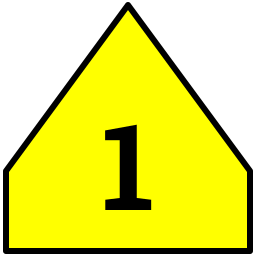
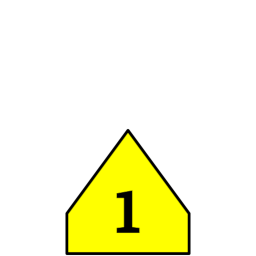
Fix some image sizes and a delete problem

diff --git a/src/main/java/de/turnertech/thw/cop/model/area/Area.java b/src/main/java/de/turnertech/thw/cop/model/area/Area.java
@@ -1,6 +1,5 @@
 package de.turnertech.thw.cop.model.area;
 
-import java.util.List;
 import java.util.UUID;
 
 import javax.xml.stream.XMLStreamWriter;
@@ -10,8 +9,10 @@ import de.turnertech.thw.cop.Logging;
 import de.turnertech.thw.cop.gml.BoundingBox;
 import de.turnertech.thw.cop.gml.Feature;
 import de.turnertech.thw.cop.gml.FeatureType;
+import de.turnertech.thw.cop.gml.Polygon;
 import de.turnertech.thw.cop.gml.SpatialReferenceSystem;
-import de.turnertech.thw.cop.util.Coordinate;
+import de.turnertech.thw.cop.gml.SpatialReferenceSystemRepresentation;
+import de.turnertech.thw.cop.ows.api.OwsContext;
 
 public class Area implements Feature {
     
@@ -21,7 +22,7 @@ public class Area implements Feature {
 
     private String id;
 
-    private List<Coordinate> geometry;
+    private Polygon geometry;
 
     private String areaType;
 
@@ -38,11 +39,11 @@ public class Area implements Feature {
         return id;
     }
 
-    public List<Coordinate> getGeometry() {
+    public Polygon getGeometry() {
         return geometry;
     }
 
-    public void setGeometry(List<Coordinate> polygon) {
+    public void setGeometry(Polygon polygon) {
         this.geometry = polygon;
     }
 
@@ -58,7 +59,7 @@ public class Area implements Feature {
 
     @Override
     public BoundingBox getBoundingBox() {
-        return BoundingBox.from(getGeometry());
+        return BoundingBox.from(getGeometry().getExterior().getPosList());
     }
 
     public String getAreaType() {
@@ -77,12 +78,7 @@ public class Area implements Feature {
         stringBuilder.append("\"><boscop:geometry><gml:Polygon srsName=\"http://www.opengis.net/def/crs/EPSG/0/4326\" gml:id=\"");
         stringBuilder.append(gmlId);
         stringBuilder.append("-geometry\"><gml:exterior><gml:LinearRing srsName=\"http://www.opengis.net/def/crs/EPSG/0/4326\"><gml:posList srsDimension=\"2\">");
-        for(Coordinate coord : geometry) {
-            stringBuilder.append(String.valueOf(coord.getLatitude()));
-            stringBuilder.append(" ");
-            stringBuilder.append(String.valueOf(coord.getLongitude()));
-            stringBuilder.append(" ");
-        }
+        
         stringBuilder.append("</gml:posList></gml:LinearRing></gml:exterior></gml:Polygon></boscop:geometry>");
         stringBuilder.append("<boscop:areaType>");
         stringBuilder.append(areaType);
@@ -92,11 +88,18 @@ public class Area implements Feature {
     }
 
     @Override
-    public void writeGml(XMLStreamWriter out, String localName, String namespaceURI) {
+    public void writeGml(XMLStreamWriter out, String localName, String namespaceURI, SpatialReferenceSystemRepresentation srs) {
         try {
             writeGmlStartElement(out, localName, namespaceURI);
+            out.writeAttribute(OwsContext.GML_URI, "id", getId());
             
+            out.writeStartElement(FEATURE_TYPE.getNamespace(), "areaType");
+            out.writeCharacters(areaType);
+            out.writeEndElement();
 
+            out.writeStartElement(FEATURE_TYPE.getNamespace(), "geometry");
+            geometry.writeGml(out);
+            out.writeEndElement();
 
             out.writeEndElement();
         } catch (Exception e) {

diff --git a/src/main/java/de/turnertech/thw/cop/gml/BoundingBox.java b/src/main/java/de/turnertech/thw/cop/gml/BoundingBox.java
@@ -47,6 +47,32 @@ public class BoundingBox implements GmlElement {
         return new BoundingBox(other.south, other.west, other.north, other.east);
     }
 
+    public static BoundingBox from(DirectPositionList posList) {
+        double maxSouth = Double.MAX_VALUE;
+        double maxWest = Double.MAX_VALUE;
+        double maxNorth = Double.MIN_VALUE;
+        double maxEast = Double.MIN_VALUE;
+
+        for(DirectPosition position : posList) {
+            if(position.getY() > maxNorth) maxNorth = position.getY();
+            if(position.getY() < maxSouth) maxSouth = position.getY();
+            if(position.getX() > maxEast) maxEast = position.getX();
+            if(position.getX() < maxWest) maxWest = position.getX();
+        }
+
+        // Catch BBOX with a size of 0 (causes errors in many clients, happens with only 1 point)
+        if(maxSouth == maxNorth) {
+            maxNorth += 0.00001;
+            maxSouth -= 0.00001;
+        }
+        if(maxEast == maxWest) {
+            maxEast += 0.00001;
+            maxWest -= 0.00001;
+        }
+
+        return new BoundingBox(maxSouth, maxWest, maxNorth, maxEast);
+    }
+
     public static BoundingBox from(PositionProvider... positions) {
         return from(Arrays.asList(positions));
     }
@@ -126,7 +152,7 @@ public class BoundingBox implements GmlElement {
     }
 
     @Override
-    public void writeGml(XMLStreamWriter out, String localName, String namespaceURI) {
+    public void writeGml(XMLStreamWriter out, String localName, String namespaceURI, SpatialReferenceSystemRepresentation srs) {
         try {
             writeGmlStartElement(out, localName, namespaceURI);
                 out.writeStartElement(GmlElement.NAMESPACE, "Envelope");

diff --git a/src/main/java/de/turnertech/thw/cop/model/area/AreaDecoder.java b/src/main/java/de/turnertech/thw/cop/model/area/AreaDecoder.java
@@ -6,8 +6,11 @@ import java.util.List;
 import org.w3c.dom.Element;
 import org.w3c.dom.NodeList;
 
+import de.turnertech.thw.cop.gml.DirectPosition;
+import de.turnertech.thw.cop.gml.DirectPositionList;
 import de.turnertech.thw.cop.gml.Feature;
-import de.turnertech.thw.cop.util.Coordinate;
+import de.turnertech.thw.cop.gml.LinearRing;
+import de.turnertech.thw.cop.gml.Polygon;
 
 public class AreaDecoder {
     
@@ -29,12 +32,13 @@ public class AreaDecoder {
             String posListString = posListElements.item(0).getTextContent();
 
             String[] coordValues = posListString.split(" ");
-            List<Coordinate> coordsOut = new ArrayList<>(coordValues.length / 2);
+            
+            DirectPositionList coordsOut = new DirectPositionList(coordValues.length / 2);
             for(int j = 0; j < coordValues.length; j += 2) {
-                Coordinate coord = new Coordinate(Double.parseDouble(coordValues[j]), Double.parseDouble(coordValues[j+1]));
+                DirectPosition coord = new DirectPosition(Double.parseDouble(coordValues[j+1]), Double.parseDouble(coordValues[j]));
                 coordsOut.add(coord);
             }
-            areaOut.setGeometry(coordsOut);
+            areaOut.setGeometry(new Polygon(new LinearRing(coordsOut)));
 
             // Get areaType
             NodeList areaTypeElements = areaElement.getElementsByTagName("areaType");

diff --git a/src/main/java/de/turnertech/thw/cop/gml/GmlElement.java b/src/main/java/de/turnertech/thw/cop/gml/GmlElement.java
@@ -12,15 +12,15 @@ public interface GmlElement {
     public static final String NAMESPACE = "http://www.opengis.net/gml/3.2";
 
     public default String toGml() {
-        return toGml(getGmlName(), NAMESPACE);
+        return toGml(getGmlName(), NAMESPACE, SpatialReferenceSystemRepresentation.EPSG4327_URI);
     }
 
-    public default String toGml(String localName, String namespaceURI) {
+    public default String toGml(String localName, String namespaceURI, SpatialReferenceSystemRepresentation srs) {
         StringWriter outStream = new StringWriter();
 
         try {
             XMLStreamWriter out = XMLOutputFactory.newInstance().createXMLStreamWriter(outStream);
-            writeGml(out, localName, namespaceURI);
+            writeGml(out, localName, namespaceURI, srs);
             out.close();
         } catch (Exception e) {
             return null;
@@ -30,10 +30,10 @@ public interface GmlElement {
     }
 
     public default void writeGml(XMLStreamWriter out) {
-        writeGml(out, getGmlName(), NAMESPACE);
+        writeGml(out, getGmlName(), NAMESPACE, SpatialReferenceSystemRepresentation.EPSG4327_URI);
     }
 
-    public void writeGml(XMLStreamWriter out, String localName, String namespaceURI);
+    public void writeGml(XMLStreamWriter out, String localName, String namespaceURI, SpatialReferenceSystemRepresentation srs);
 
     public String getGmlName();
 

diff --git a/src/main/java/de/turnertech/thw/cop/ows/WfsTransactionRequest.java b/src/main/java/de/turnertech/thw/cop/ows/WfsTransactionRequest.java
@@ -70,12 +70,20 @@ public class WfsTransactionRequest implements RequestHandler  {
                     response.sendError(400, ErrorServlet.encodeMessage(ExceptionCode.OPERATION_PARSING_FAILED.toString(), "typeName", "Could not locate the typeName element for a Filter operation"));
                     return;
                 }
+                String prefix = null;
+                String namespaceUri = null;
                 String typeName = typeNameNode.getNodeValue();
+
+                // TODO: Add a helper to be certain about the NS
+                if(typeName.contains(":")) {
+                    String[] parts = typeName.split(":", 2);
+                    prefix = parts[0];
+                    typeName = parts[1];
+                }
+                namespaceUri = root.lookupNamespaceURI(prefix);
 
                 OgcFilter ogcFilter = OgcFilterDecoder.getFilter(filter);
 
-
-    
                 if(HazardModel.TYPENAME.equals(typeName)) {
                     Collection<Feature> hazards = HazardModel.INSTANCE.filter(ogcFilter);
                     HazardModel.INSTANCE.removeAll(hazards);

diff --git a/src/main/java/de/turnertech/thw/cop/ows/WfsGetFeatureRequest.java b/src/main/java/de/turnertech/thw/cop/ows/WfsGetFeatureRequest.java
@@ -18,6 +18,7 @@ import de.turnertech.thw.cop.ErrorServlet;
 import de.turnertech.thw.cop.gml.BoundingBox;
 import de.turnertech.thw.cop.gml.Feature;
 import de.turnertech.thw.cop.gml.FeatureType;
+import de.turnertech.thw.cop.gml.SpatialReferenceSystemRepresentation;
 import de.turnertech.thw.cop.ows.api.Model;
 import de.turnertech.thw.cop.ows.api.OwsContext;
 import de.turnertech.thw.cop.ows.api.OwsRequestContext;
@@ -144,7 +145,7 @@ public class WfsGetFeatureRequest implements RequestHandler {
 
                 for (Feature feature : features) {
                     out.writeStartElement(OwsContext.GML_URI, "featureMember");
-                    feature.writeGml(out, feature.getFeatureType().getName(), feature.getFeatureType().getNamespace());
+                    feature.writeGml(out, feature.getFeatureType().getName(), feature.getFeatureType().getNamespace(), SpatialReferenceSystemRepresentation.EPSG4327_URI);
                     out.writeEndElement();
                 }
             }

diff --git a/src/main/java/de/turnertech/thw/cop/gml/SpatialReferenceSystem.java b/src/main/java/de/turnertech/thw/cop/gml/SpatialReferenceSystem.java
@@ -2,25 +2,28 @@ package de.turnertech.thw.cop.gml;
 
 public enum SpatialReferenceSystem {
 
-    EPSG4327("http://www.opengis.net/def/crs/EPSG/0/4326", 2);
+    EPSG4327("http://www.opengis.net/def/crs/EPSG/0/4326", "urn:ogc:def:crs:EPSG::4326", 2);
 
     private final String uri;
 
+    private final String urn;
+
     private final int dimension;
 
-    private SpatialReferenceSystem(String uri, int dimension) {
+    private SpatialReferenceSystem(String uri, String urn, int dimension) {
         this.uri = uri;
         this.dimension = dimension;
+        this.urn = urn;
     }
 
     public String getUri() {
         return uri;
     }
 
-    /**
-     * Gtes the number of dimensions in this reference system, such as lon, lat, height.
-     * @return the number of dimensions in this reference system.
-     */
+    public String getUrn() {
+        return urn;
+    }
+
     public int getDimension() {
         return dimension;
     }

diff --git a/src/main/java/de/turnertech/thw/cop/gml/DirectPositionList.java b/src/main/java/de/turnertech/thw/cop/gml/DirectPositionList.java
@@ -36,12 +36,12 @@ public class DirectPositionList extends ArrayList<DirectPosition> implements Gml
      * {@inheritDoc}
      */
     @Override
-    public void writeGml(XMLStreamWriter out, String localName, String namespaceURI) {
+    public void writeGml(XMLStreamWriter out, String localName, String namespaceURI, SpatialReferenceSystemRepresentation srs) {
         try {
             writeGmlStartElement(out, localName, namespaceURI);
             out.writeAttribute("srsDimension", "2");
             for(int i = 0; i < this.size(); ++i) {
-                out.writeCharacters(Double.toString(this.get(i).getX()) + " " + Double.toString(this.get(i).getY()));
+                out.writeCharacters(Double.toString(this.get(i).getY()) + " " + Double.toString(this.get(i).getX()));
                 if(i != this.size() - 1) {
                     out.writeCharacters(" ");
                 }

diff --git a/src/main/java/de/turnertech/thw/cop/model/hazard/Hazard.java b/src/main/java/de/turnertech/thw/cop/model/hazard/Hazard.java
@@ -11,6 +11,7 @@ import de.turnertech.thw.cop.gml.Feature;
 import de.turnertech.thw.cop.gml.FeatureType;
 import de.turnertech.thw.cop.gml.Point;
 import de.turnertech.thw.cop.gml.SpatialReferenceSystem;
+import de.turnertech.thw.cop.gml.SpatialReferenceSystemRepresentation;
 import de.turnertech.thw.cop.ows.api.OwsContext;
 
 public class Hazard implements Feature {
@@ -90,7 +91,7 @@ public class Hazard implements Feature {
     }
 
     @Override
-    public void writeGml(XMLStreamWriter out, String localName, String namespaceURI) {
+    public void writeGml(XMLStreamWriter out, String localName, String namespaceURI, SpatialReferenceSystemRepresentation srs) {
         try {
             writeGmlStartElement(out, localName, namespaceURI);
             out.writeAttribute(OwsContext.GML_URI, "id", getId());

diff --git a/src/main/java/de/turnertech/thw/cop/gml/Circle.java b/src/main/java/de/turnertech/thw/cop/gml/Circle.java
@@ -45,14 +45,14 @@ public class Circle implements GmlElement {
     }
 
     @Override
-    public void writeGml(XMLStreamWriter out, String localName, String namespaceURI) {
+    public void writeGml(XMLStreamWriter out, String localName, String namespaceURI, SpatialReferenceSystemRepresentation srs) {
         try {
             writeGmlStartElement(out, localName, namespaceURI);
             out.writeStartElement(GmlElement.NAMESPACE, "segments");
             out.writeStartElement(GmlElement.NAMESPACE, "CircleByCenterPoint");
             out.writeAttribute("numArc", "1");
 
-            radius.writeGml(out, GmlElement.NAMESPACE, "radius");
+            radius.writeGml(out, GmlElement.NAMESPACE, "radius", srs);
 
             out.writeEndElement();
             out.writeEndElement();

diff --git a/src/main/java/de/turnertech/thw/cop/model/unit/Unit.java b/src/main/java/de/turnertech/thw/cop/model/unit/Unit.java
@@ -10,6 +10,7 @@ import de.turnertech.thw.cop.gml.BoundingBox;
 import de.turnertech.thw.cop.gml.Feature;
 import de.turnertech.thw.cop.gml.FeatureType;
 import de.turnertech.thw.cop.gml.SpatialReferenceSystem;
+import de.turnertech.thw.cop.gml.SpatialReferenceSystemRepresentation;
 import de.turnertech.thw.cop.util.OPTA;
 import de.turnertech.thw.cop.util.PositionProvider;
 
@@ -106,7 +107,7 @@ public class Unit implements PositionProvider, Feature {
     }
 
     @Override
-    public void writeGml(XMLStreamWriter out, String localName, String namespaceURI) {
+    public void writeGml(XMLStreamWriter out, String localName, String namespaceURI, SpatialReferenceSystemRepresentation srs) {
         try {
             writeGmlStartElement(out, localName, namespaceURI);
             

diff --git a/src/main/java/de/turnertech/thw/cop/gml/SpatialReferenceSystemRepresentation.java b/src/main/java/de/turnertech/thw/cop/gml/SpatialReferenceSystemRepresentation.java
@@ -1,0 +1,22 @@
+package de.turnertech.thw.cop.gml;
+
+public class SpatialReferenceSystemRepresentation {
+
+    public static final int URI = 0;
+
+    public static final int URN = 2;
+
+    public static final SpatialReferenceSystemRepresentation EPSG4327_URI = new SpatialReferenceSystemRepresentation(SpatialReferenceSystem.EPSG4327, URI);
+
+    public static final SpatialReferenceSystemRepresentation EPSG4327_URN = new SpatialReferenceSystemRepresentation(SpatialReferenceSystem.EPSG4327, URN);
+
+    public SpatialReferenceSystem srs;
+
+    public int representation;
+
+    public SpatialReferenceSystemRepresentation(SpatialReferenceSystem srs, int representation) {
+        this.representation = representation;
+        this.srs = srs;
+    }
+
+}
